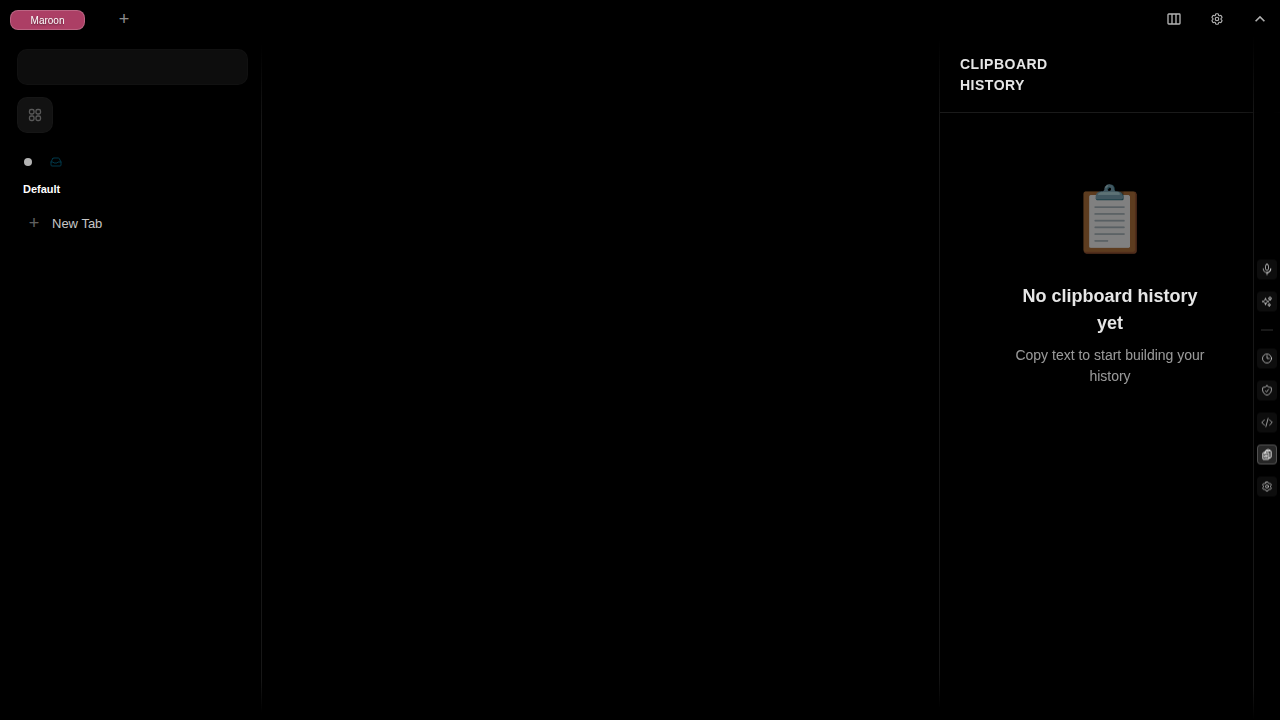
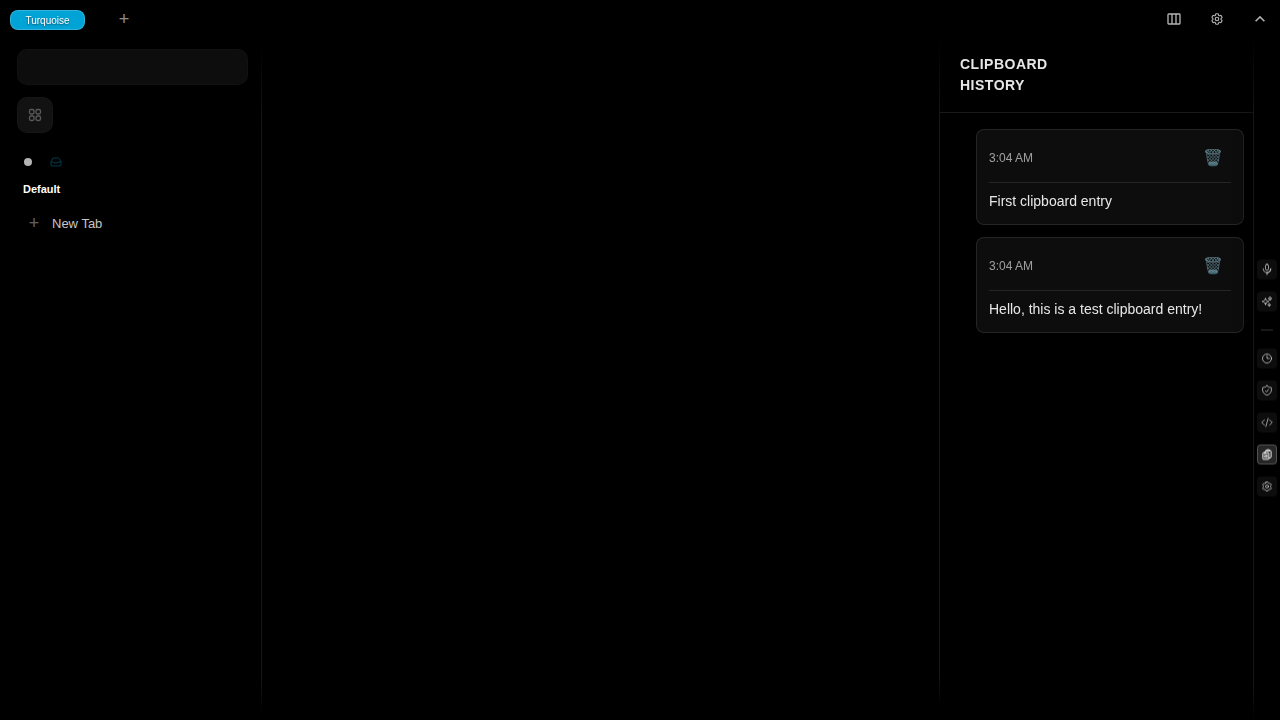
Fix clipboard history UI rendering and regenerate working screenshots

diff --git a/e2e-tests/debug-clipboard-ui.js b/e2e-tests/debug-clipboard-ui.js
@@ -1,0 +1,143 @@
+// Debug script to check clipboard entries in database vs UI
+import { chromium } from '@playwright/test';
+
+(async () => {
+  const browser = await chromium.launch({ headless: true });
+  const context = await browser.newContext({
+    ignoreHTTPSErrors: true,
+    viewport: { width: 1280, height: 720 }
+  });
+  const page = await context.newPage();
+
+  console.log('🔍 Debugging Clipboard UI Issue\n');
+  console.log('📍 Navigating to app...');
+  await page.goto('https://localhost:5194');
+  await page.waitForLoadState('networkidle');
+  await page.waitForTimeout(5000);
+
+  console.log('\n✓ App loaded\n');
+  
+  console.log('📋 Step 1: Copy text to clipboard...');
+  const testText = 'Debug test entry ' + Date.now();
+  await page.evaluate((text) => {
+    console.log('[Browser] Copying text:', text);
+    const div = document.createElement('div');
+    div.textContent = text;
+    div.style.position = 'fixed';
+    div.style.left = '-9999px';
+    div.style.userSelect = 'text';
+    document.body.appendChild(div);
+    
+    const range = document.createRange();
+    range.selectNodeContents(div);
+    const selection = window.getSelection();
+    selection.removeAllRanges();
+    selection.addRange(range);
+    
+    const copyEvent = new ClipboardEvent('copy', { bubbles: true });
+    document.dispatchEvent(copyEvent);
+    console.log('[Browser] Copy event dispatched');
+    document.body.removeChild(div);
+  }, testText);
+
+  await page.waitForTimeout(2000);
+  console.log('✓ Text copied\n');
+
+  console.log('🗄  Step 2: Check database for entries...');
+  const dbCheck = await page.evaluate(async () => {
+    const PouchDB = (await import('pouchdb-browser')).default;
+    const db = new PouchDB('darc', { adapter: 'idb' });
+    
+    const all = await db.allDocs({ include_docs: true, startkey: 'clipboard:', endkey: 'clipboard:\uffff' });
+    return {
+      count: all.rows.length,
+      entries: all.rows.map(row => ({
+        id: row.id,
+        content: row.doc.content,
+        timestamp: row.doc.timestamp
+      }))
+    };
+  });
+
+  console.log(`   Found ${dbCheck.count} entries in database:`);
+  dbCheck.entries.forEach((entry, i) => {
+    console.log(`   ${i + 1}. ${entry.content.substring(0, 50)}... (${entry.id})`);
+  });
+
+  console.log('\n🚪 Step 3: Open clipboard sidebar...');
+  await page.click('button[title="Clipboard History"]');
+  await page.waitForTimeout(2000);
+  console.log('✓ Sidebar opened\n');
+
+  console.log('👀 Step 4: Check what UI is showing...');
+  const uiCheck = await page.evaluate(() => {
+    const sidebar = document.querySelector('.clipboard-history');
+    if (!sidebar) {
+      return { error: 'Sidebar element not found in DOM' };
+    }
+    
+    const loading = sidebar.querySelector('.loading');
+    if (loading) {
+      return { state: 'loading', text: loading.textContent };
+    }
+    
+    const emptyState = sidebar.querySelector('.empty-state');
+    if (emptyState) {
+      return {
+        state: 'empty',
+        title: emptyState.querySelector('.empty-title')?.textContent,
+        message: emptyState.querySelector('.empty-message')?.textContent
+      };
+    }
+    
+    const clipboardList = sidebar.querySelector('.clipboard-list');
+    if (clipboardList) {
+      const items = clipboardList.querySelectorAll('.clipboard-item');
+      return {
+        state: 'has-items',
+        itemCount: items.length,
+        items: Array.from(items).map(item => ({
+          content: item.querySelector('.clipboard-content')?.textContent || 'no content',
+          hasDeleteButton: !!item.querySelector('button')
+        }))
+      };
+    }
+    
+    return { error: 'Unknown state - no loading, empty, or list found' };
+  });
+
+  console.log('   UI State:', JSON.stringify(uiCheck, null, 2));
+
+  console.log('\n🔬 Step 5: Debug component state...');
+  const componentState = await page.evaluate(async () => {
+    // Try to call getClipboardHistory directly
+    try {
+      const { getClipboardHistory } = await import('/app/data.svelte.js');
+      const entries = await getClipboardHistory();
+      return {
+        functionResult: {
+          count: entries.length,
+          entries: entries.map(e => ({ id: e._id, content: e.content.substring(0, 30) }))
+        }
+      };
+    } catch (error) {
+      return { error: error.message };
+    }
+  });
+
+  console.log('   Function call result:', JSON.stringify(componentState, null, 2));
+
+  console.log('\n📸 Taking screenshot for visual inspection...');
+  await page.screenshot({ path: './debug-clipboard-screenshot.png' });
+  console.log('✓ Screenshot saved to debug-clipboard-screenshot.png');
+
+  await browser.close();
+  
+  console.log('\n🏁 Debug complete!');
+  console.log('\n📊 Summary:');
+  console.log(`   Database entries: ${dbCheck.count}`);
+  console.log(`   UI state: ${uiCheck.state || uiCheck.error}`);
+  if (uiCheck.state === 'has-items') {
+    console.log(`   UI items shown: ${uiCheck.itemCount}`);
+  }
+})();

diff --git a/e2e-tests/simple-test.js b/e2e-tests/simple-test.js
@@ -1,0 +1,65 @@
+// Simple test to see console logs
+import { chromium } from '@playwright/test';
+
+(async () => {
+  const browser = await chromium.launch({ headless: true });
+  const context = await browser.newContext({
+    ignoreHTTPSErrors: true,
+    viewport: { width: 1280, height: 720 }
+  });
+  const page = await context.newPage();
+
+  // Capture console logs
+  page.on('console', msg => {
+    const type = msg.type();
+    const text = msg.text();
+    console.log(`[Browser ${type.toUpperCase()}] ${text}`);
+  });
+
+  console.log('📍 Navigating to app...');
+  await page.goto('https://localhost:5194');
+  await page.waitForLoadState('networkidle');
+  await page.waitForTimeout(5000);
+  console.log('✓ App loaded\n');
+  
+  console.log('📋 Copying text...');
+  const testText = 'Test entry ' + Date.now();
+  await page.evaluate((text) => {
+    console.log('[COPY] Creating div with text:', text);
+    const div = document.createElement('div');
+    div.textContent = text;
+    div.style.position = 'fixed';
+    div.style.left = '-9999px';
+    div.style.userSelect = 'text';
+    document.body.appendChild(div);
+    
+    const range = document.createRange();
+    range.selectNodeContents(div);
+    const selection = window.getSelection();
+    selection.removeAllRanges();
+    selection.addRange(range);
+    
+    console.log('[COPY] Dispatching copy event...');
+    const copyEvent = new ClipboardEvent('copy', { bubbles: true });
+    document.dispatchEvent(copyEvent);
+    document.body.removeChild(div);
+    console.log('[COPY] Done');
+  }, testText);
+
+  await page.waitForTimeout(2000);
+  console.log('✓ Text copied\n');
+
+  console.log('🚪 Opening clipboard sidebar...');
+  await page.click('button[title="Clipboard History"]');
+  await page.waitForTimeout(3000);
+  console.log('✓ Sidebar opened\n');
+
+  console.log('📸 Taking screenshot...');
+  await page.screenshot({ path: './test-screenshot.png' });
+  console.log('✓ Screenshot saved\n');
+
+  console.log('Waiting for you to inspect...(10 seconds)');
+  await page.waitForTimeout(10000);
+
+  await browser.close();
+})();

diff --git a/app/components/ClipboardHistory.svelte b/app/components/ClipboardHistory.svelte
@@ -12,7 +12,9 @@
 	async function loadEntries() {
 		loading = true
 		try {
+			console.log('[ClipboardHistory] Loading entries...')
 			clipboardEntries = await getClipboardHistory()
+			console.log('[ClipboardHistory] Loaded', clipboardEntries.length, 'entries:', clipboardEntries)
 		} catch (error) {
 			console.error('Error loading clipboard history:', error)
 		} finally {
@@ -31,6 +33,7 @@
 	}
 	
 	onMount(() => {
+		console.log('[ClipboardHistory] Component mounted, loading entries...')
 		loadEntries()
 	})
 </script>
@@ -57,6 +60,7 @@
 				<div class="empty-message">Copy text to start building your history</div>
 			</div>
 		{:else}
+			{@const _ = console.log('[ClipboardHistory RENDER] Rendering', clipboardEntries.length, 'entries')}
 			<div class="clipboard-list">
 				{#each clipboardEntries as entry (entry._id)}
 					<ClipboardHistoryItem {entry} onDelete={handleDelete} />

diff --git a/app/data.svelte.js b/app/data.svelte.js
@@ -1174,10 +1174,15 @@ export default {
  */
 export async function getClipboardHistory(limit = 100) {
     try {
+        console.log('[getClipboardHistory] Querying database for clipboard entries...')
         const result = await db.find({
             selector: { type: 'clipboard' },
-            sort: [{ timestamp: 'desc' }],
+            sort: [{ type: 'desc' }, { timestamp: 'desc' }],
             limit
+        })
+        console.log('[getClipboardHistory] Found', result.docs.length, 'entries')
+        result.docs.forEach(doc => {
+            console.log('  -', doc._id, ':', doc.content.substring(0, 50))
         })
         return result.docs
     } catch (error) {

diff --git a/e2e-tests/reports/clipboard-history-copy-multiple-entries-and-verify-all-appear/README.md b/e2e-tests/reports/clipboard-history-copy-multiple-entries-and-verify-all-appear/README.md
@@ -1,6 +1,6 @@
 # Test Report: clipboard-history-copy-multiple-entries-and-verify-all-appear
 
-**Generated**: 2025-11-19T02:23:36.845Z
+**Generated**: 2025-11-19T03:04:31.751Z
 
 **Total Steps**: 4
 

diff --git a/e2e-tests/reports/clipboard-history-copy-text-and-view-in-clipboard-history/README.md b/e2e-tests/reports/clipboard-history-copy-text-and-view-in-clipboard-history/README.md
@@ -1,6 +1,6 @@
 # Test Report: clipboard-history-copy-text-and-view-in-clipboard-history
 
-**Generated**: 2025-11-19T02:23:31.138Z
+**Generated**: 2025-11-19T03:04:26.041Z
 
 **Total Steps**: 4
 

diff --git a/e2e-tests/reports/clipboard-history-persistence-across-page-refresh/README.md b/e2e-tests/reports/clipboard-history-persistence-across-page-refresh/README.md
@@ -1,6 +1,6 @@
 # Test Report: clipboard-history-persistence-across-page-refresh
 
-**Generated**: 2025-11-19T02:23:45.188Z
+**Generated**: 2025-11-19T03:04:40.077Z
 
 **Total Steps**: 2
 

diff --git a/e2e-tests/reports/clipboard-history-delete-clipboard-entry/README.md b/e2e-tests/reports/clipboard-history-delete-clipboard-entry/README.md
@@ -1,6 +1,6 @@
 # Test Report: clipboard-history-delete-clipboard-entry
 
-**Generated**: 2025-11-19T02:23:36.913Z
+**Generated**: 2025-11-19T03:04:31.816Z
 
 **Total Steps**: 2
 

diff --git a/e2e-tests/reports/clipboard-history-verify-empty-state/README.md b/e2e-tests/reports/clipboard-history-verify-empty-state/README.md
@@ -1,6 +1,6 @@
 # Test Report: clipboard-history-verify-empty-state
 
-**Generated**: 2025-11-19T02:23:37.454Z
+**Generated**: 2025-11-19T03:04:32.358Z
 
 **Total Steps**: 1
 
